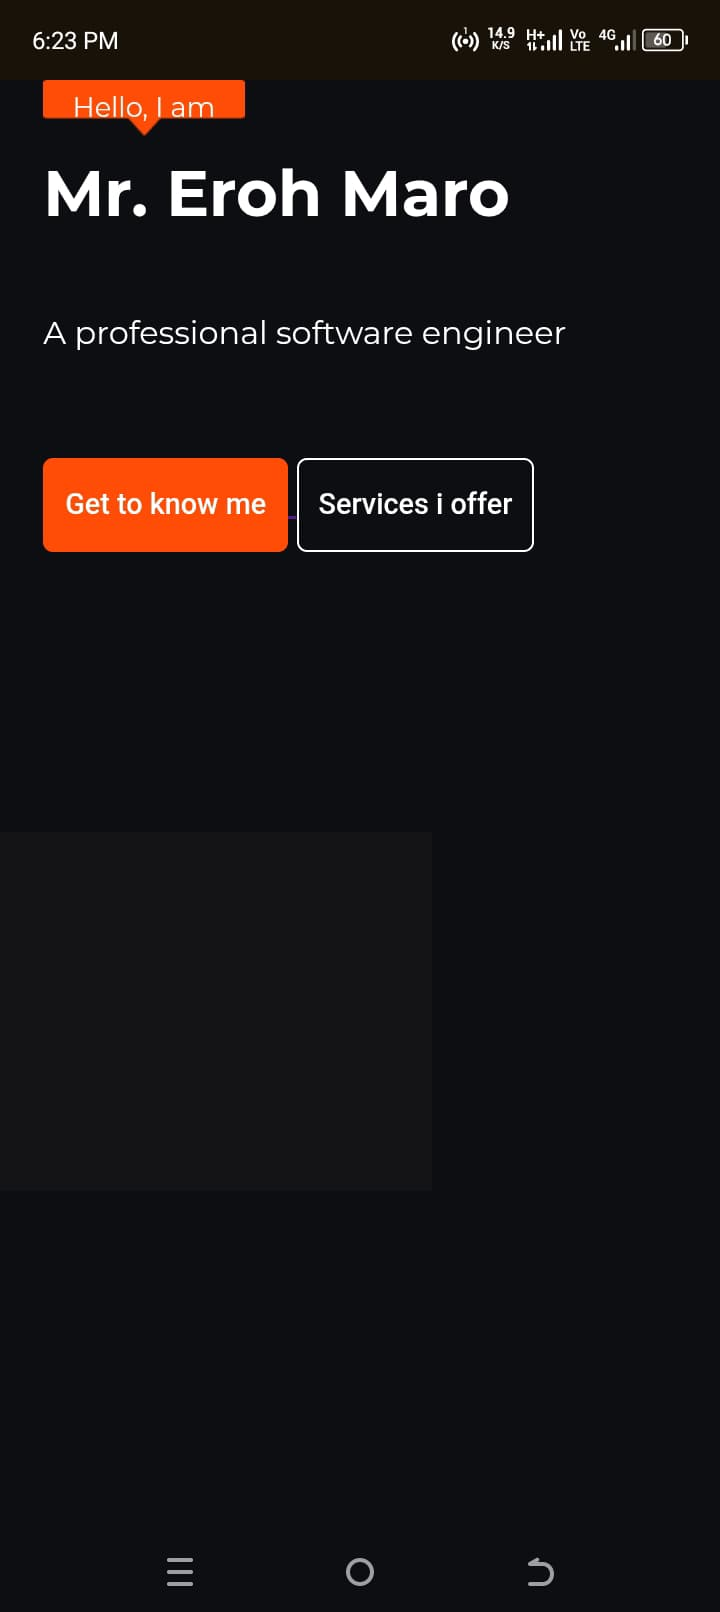
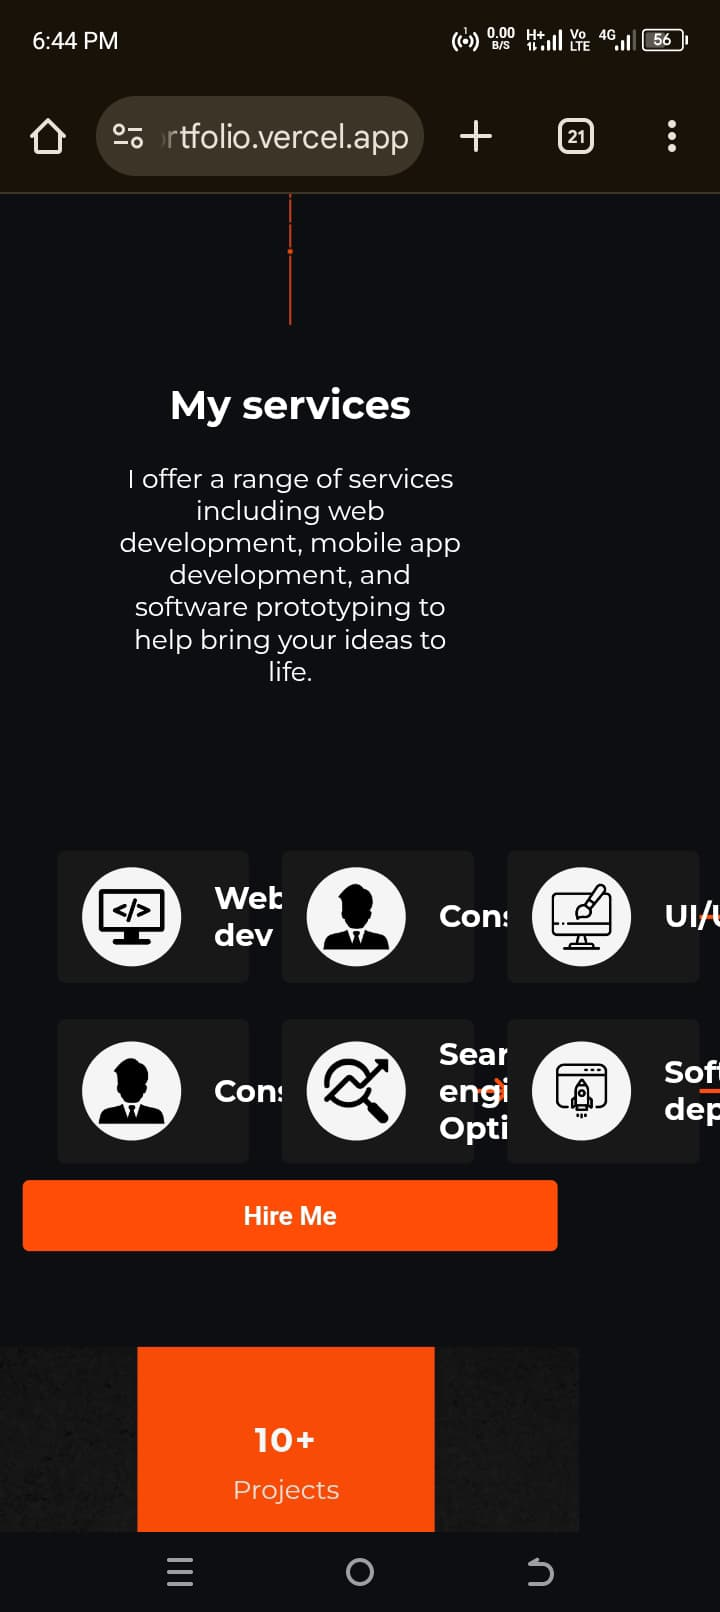
adjusting services section

diff --git a/styles.css b/styles.css
@@ -785,37 +785,63 @@ h1 {
     width: 96vw;
     gap: 8px;
   }
-  .serviceContainer {
-    width: 12vw;
+.serviceWrapper {
+    width: 100vw;
+    justify-content: center;
+    padding: 0;
+    margin: 0;
+  }
+  .services {
+    display: grid;
+    grid-template-columns: 1fr 1fr;
+    gap: 10px;
+    width: 96vw;
+    margin: 0 auto;
+  }
+    .serviceContainer {
+    width: 100%;
     min-width: 0;
-    padding: 8px 6px;
-    margin: 4px;
+    padding: 10px 4px;
+    margin: 0;
     font-size: 0.95rem;
+    border-radius: 6px;
+    flex-direction: column;
+    align-items: center;
+    text-align: center;
   }
   .service-img {
-    margin-right: 6px;
-    min-width: 19px;
-    min-height: 19px;
-    width: 19px;
-    height: 19px;
+    margin: 0 auto 6px auto;
+    min-width: 32px;
+    min-height: 32px;
+    width: 32px;
+    height: 32px;
+    display: flex;
+    align-items: center;
+    justify-content: center;
   }
-  .service-icon {
-    width: 12px;
-    height: 12px;
+    .service-icon {
+    width: 22px;
+    height: 22px;
     padding: 2px;
   }
   .service-title {
-    font-size: 0.6rem;
-    margin: 0 4px;
+    font-size: 0.95rem;
+    margin: 4px 0 0 0;
     word-break: break-word;
+    text-align: center;
+  }
+  .More-img {
+    margin: 4px auto 0 auto;
+    display: flex;
+    justify-content: center;
   }
   .More-img .service-icon {
-    width: 18px;
-    height: 18px;
-    padding: 2px;
+    width: 16px;
+    height: 16px;
+    padding: 1px;
   }
-  .serviceText {
-    width: 90vw;
+    .serviceText {
+    width: 92vw;
     font-size: 1rem;
   }
   .serviceSection {
